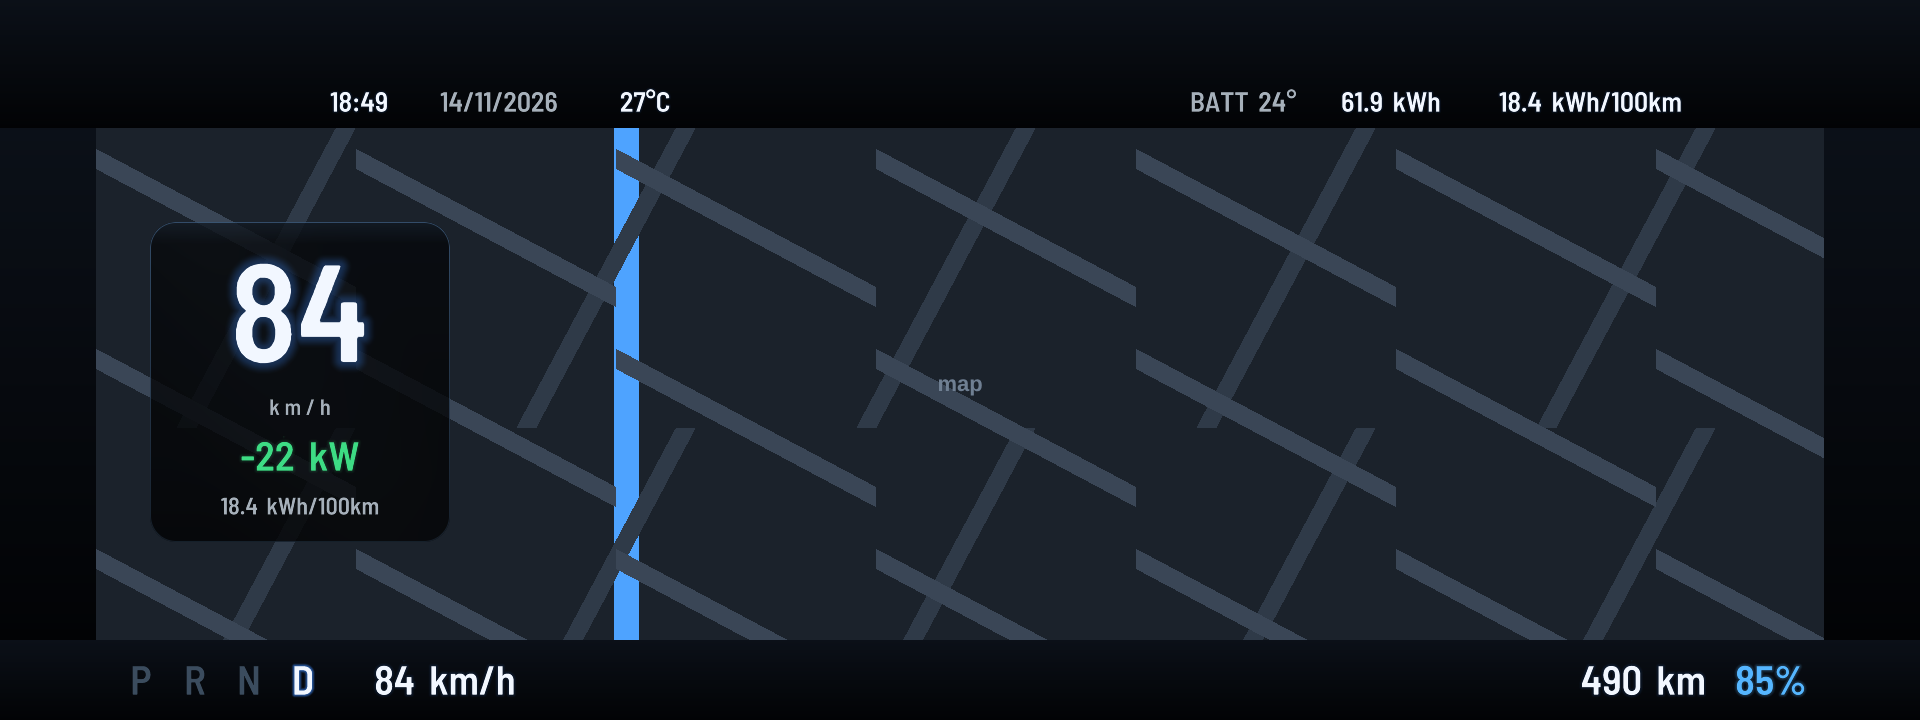
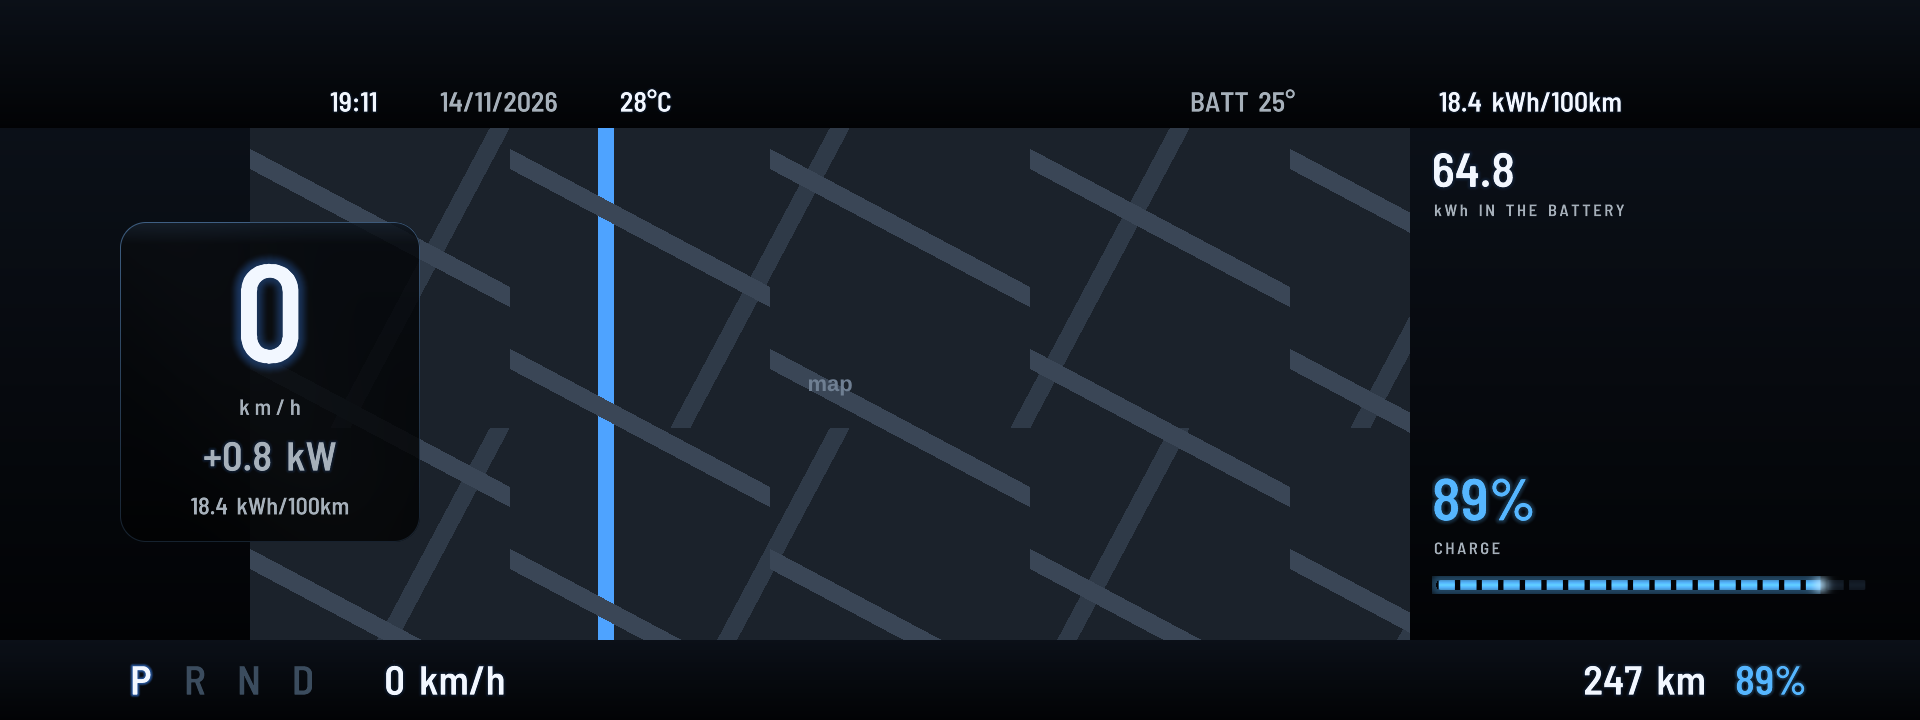
Cluster Layouts 0.35.0: Electric's Waze window in the map's shape, its card above the map
From the car: the map showed in the cluster's own vignetted place with the
stock dials and speed through the window, and Waze's map (z 900) would
cover a card at z 890.
- The window is 1160 x 512, in the shape of Waze's 1088 x 480 map, which
  it stretches to the window (1728 x 512 squashed it).
- A black underlay in the window: where no map is drawn (an older Waze on
  cluster, or none) black, not the stock cluster.
- The card and its texts at z 990 / 1000, over Waze's map.
- Right of the map: the energy in the battery and the charge with its
  bar, round the cluster's own boxes in full view.
- Cluster Info: an electric car's third item, the charge (1.6.10).
- tools/preview.js: with a layout's own window, the layers under z 900
  inside it are left out, as Waze's map covers them on the car.

Claude-Session: https://claude.ai/code/session_018huusukPYT9PcuHcAmoNTz

diff --git a/apps/cluster_layouts/layout_electric.js b/apps/cluster_layouts/layout_electric.js
@@ -167,31 +167,34 @@ function newCar(o, arcs, gearC, rpmTxt) {
 
 /*
  * ---- the Waze map in the centre: the map as the whole cluster ----
- * No dials. Waze on cluster draws its map where the layout says (map_window.js): here 1728 x 512, edge to edge,
- * instead of the native map area (1088 x 480). The speed, the power and the use per 100 km stand on a dark card
- * over the map's left side: Waze draws over the layout, so the card and its texts ask for a place above the map
- * (z); whether the renderer gives it is not yet seen on a car, so the speed is in the bottom band too.
- * Above the map, beside the camera's cowl: the time, the date and the outside temperature on the left, the
- * battery's temperature, its energy and the use on the right. Full view (Settings > Bottom strip): the bottom band
- * is the layout's, left and right of the stock warning lights (layout_common.TELLTALES): the gear selector P R N D
- * and the speed, the range and the charge. Over the car's own strip (which shows gear, range and time itself) a
- * chip over the map's bottom right has the range and the charge. In full view the KOMBI's own dark boxes
- * (layout_common.GEARBOX_HOLE, EDRIVE_HOLE) sit over the map's right side.
+ * No dials. Waze on cluster (0.9.107 or later) draws its map where the layout says (map_window.js), on the panel
+ * above the layout (its z 900), stretched to the window: so the window keeps the map's own shape (1088 x 480, 2.27
+ * to 1), 1160 x 512 here instead of the native map area's 1088 x 480. Under the window a black underlay: where no map
+ * is drawn (Waze not running, or an older one drawing in its own place) the cluster shows black there, not its stock
+ * dials and map screen through the window.
+ * Over the map's left side a dark card with the speed, the power and the use per 100 km, above the map (z 990 / 1000,
+ * over Waze's 900); not yet seen on a car, so the speed is in the bottom band too. Right of the map a column with the
+ * energy in the battery and the charge. Above the map, beside the camera's cowl: the time, the date and the outside
+ * temperature on the left, the battery's temperature and the use on the right. Full view (Settings > Bottom strip): the
+ * bottom band is the layout's, left and right of the stock warning lights (layout_common.TELLTALES): the gear selector
+ * P R N D and the speed, the range and the charge. In full view the KOMBI's own dark boxes (layout_common.GEARBOX_HOLE,
+ * EDRIVE_HOLE) sit over the right column: its readings are above, beside and below them.
  */
-const MAPWIN = { x: 96, y: 128, w: 1728, h: 512 };
+const MAPWIN = { x: 250, y: 128, w: 1160, h: 512 };
 const useFull = (o) => (d) => (useText(o)(d) === '--' ? '' : useText(o)(d) + ' ' + useLabel(o).replace(/ /g, ''));
 function mapForm(o) {
-    const W = MAPWIN, strip = C.strip(o), Z = { z: 900 };
+    const W = MAPWIN, strip = C.strip(o), Z = { z: 1000 };
     const around = [{ x: 0, y: 0, w: 1920, h: W.y }, { x: 0, y: W.y + W.h, w: 1920, h: 720 - W.y - W.h },
         { x: 0, y: W.y, w: W.x, h: W.h }, { x: W.x + W.w, y: W.y, w: 1920 - W.x - W.w, h: W.h }];
     const kwC = (t, d) => ({ color: [kwOf(d) < -0.3 ? t.regen : t.dim, 1], glow: [kwOf(d) < -0.3 ? t.regen : t.glow, 0.2] });
-    const dark = (key, x, y, w, h) => ({ key, kind: 'panel', x, y, w, h, z: 890, params: { u_box: [26, 1, 0.7, 0.8] },
-        colors: (t) => ({ top: '#06090d', bottom: '#020304', border: t.cardEdge }) });
     const T = (key, x, y, w, h, value, colours, extra) => C.text(key, x, y, w, h, value, colours, Object.assign({}, extra, Z));
-    const cx = 150, cw = 300;
+    const cx = 120, cw = 300, rx = 1432;
     let list = around.map((b, i) => bg('bg' + i, b.x, b.y, b.w, b.h)).concat([
-        // the card over the map: the speed, the power, the use
-        dark('speedCard', cx, 222, cw, 320),
+        // under the map's window: black, under Waze's map (bg's z, -200)
+        { key: 'bgMapUnder', kind: 'flat', x: W.x, y: W.y, w: W.w, h: W.h, colors: () => ({ color: ['#000000', 1] }) },
+        // the card, over the map's left side and above it: the speed, the power, the use
+        { key: 'speedCard', kind: 'panel', x: cx, y: 222, w: cw, h: 320, z: 990, params: { u_box: [26, 1, 0.7, 0.86] },
+            colors: (t) => ({ top: '#06090d', bottom: '#020304', border: t.cardEdge }) },
         T('speedMap', cx, 244, cw, 150, (d) => C.speedText(o, d), big),
         T('speedMapUnit', cx, 396, cw, 24, C.speedUnit(o), lbl, { tracking: 0.2 }),
         T('kwMap', cx, 436, cw, 44, C.kwText, kwC),
@@ -200,24 +203,23 @@ function mapForm(o) {
         C.text('clock', 330, 88, 100, 30, C.clock, txt, { align: 0 }),
         C.text('date', 440, 88, 170, 30, () => require('./clock').dmy(), lbl, { align: 0 }),
         C.text('outside', 620, 88, 110, 30, (d) => C.outsideText(o, d.outside), txt, { align: 0 }),
-        C.text('battT', 1190, 88, 130, 30, (d) => 'BATT ' + C.tempText(o, d.battTemp), lbl, { align: 0 }),
-        C.text('energyTop', 1326, 88, 130, 30, energyText, txt, { align: 0.5 }),
-        C.text('useTop', 1462, 88, 220, 30, useFull(o), txt, { align: 1 }),
+        C.text('battT', 1190, 88, 160, 30, (d) => 'BATT ' + C.tempText(o, d.battTemp), lbl, { align: 0 }),
+        C.text('useTop', 1362, 88, 260, 30, useFull(o), txt, { align: 1 }),
+        // the column right of the map: the energy in the battery above the KOMBI's gear box, the charge below it
+        C.text('energyR', rx, 146, 320, 52, (d) => (C.isNum(d.energy) ? d.energy.toFixed(1) : '--'), txt, { align: 0 }),
+        C.text('energyRLbl', rx + 2, 202, 320, 18, 'kWh IN THE BATTERY', lbl, { align: 0, tracking: 0.14 }),
+        C.text('socR', rx, 470, 300, 64, C.socText, evTxt, { align: 0 }),
+        C.text('socRLbl', rx + 2, 540, 300, 18, 'CHARGE', lbl, { align: 0, tracking: 0.14 }),
+        C.bar('socRBar', rx, 576, 440, 18, (d) => (C.isNum(d.soc) ? d.soc / 100 : 0), (t) => ({ track: t.track, fill0: t.ev, fill1: t.ev, redc: t.red, tip: t.tip, tick: t.dim, num: t.num }), 20),
     ]);
-    if (!strip) {
-        // full view, the bottom band: the selector and the speed left of the warning lights, range and charge right
-        const lit = (ch) => (t, d) => (C.selectorLit(d) === ch ? { color: [ch === 'R' ? t.red : t.text, 1], glow: [t.glow, 0.8] } : { color: [t.tick, 1], glow: [t.glow, 0] });
-        return list.concat(['P', 'R', 'N', 'D'].map((ch, i) => C.text('sel' + ch, 116 + i * 54, 660, 50, 44, ch, lit(ch))), [
-            // (the speed here too: there whether or not the card over the map shows)
-            C.text('speedBand', 350, 660, 190, 44, (d) => C.speedText(o, d) + ' ' + C.speedUnit(o), txt, { align: 0.5 }),
-            C.text('rangeBand', 1536, 660, 170, 44, rangeText(o), txt, { align: 1 }),
-            C.text('socBand', 1716, 660, 110, 44, C.socText, evTxt, { align: 0.5 }),
-        ]);
-    }
-    return list.concat([
-        dark('rangeChip', 1436, 560, 360, 60),
-        T('rangeMap', 1448, 572, 190, 36, rangeText(o), txt, { align: 1 }),
-        T('socMap', 1650, 572, 134, 36, C.socText, evTxt, { align: 0.5 }),
+    if (strip) return list;
+    // full view, the bottom band: the selector and the speed left of the warning lights, range and charge right
+    const lit = (ch) => (t, d) => (C.selectorLit(d) === ch ? { color: [ch === 'R' ? t.red : t.text, 1], glow: [t.glow, 0.8] } : { color: [t.tick, 1], glow: [t.glow, 0] });
+    return list.concat(['P', 'R', 'N', 'D'].map((ch, i) => C.text('sel' + ch, 116 + i * 54, 660, 50, 44, ch, lit(ch))), [
+        // (the speed here too: there whether or not the card over the map shows)
+        C.text('speedBand', 350, 660, 190, 44, (d) => C.speedText(o, d) + ' ' + C.speedUnit(o), txt, { align: 0.5 }),
+        C.text('rangeBand', 1536, 660, 170, 44, rangeText(o), txt, { align: 1 }),
+        C.text('socBand', 1716, 660, 110, 44, C.socText, evTxt, { align: 0.5 }),
     ]);
 }
 
@@ -227,7 +229,7 @@ module.exports = {
     dap: true,          // (its road: the driving assistant's view, dap.js)
     palette: (lookId) => PALETTES[lookId] || PALETTES.comfort,
     gearText: C.gearText,
-    mapWindow: MAPWIN,  // (its own map window for Waze on cluster: edge to edge)
+    mapWindow: MAPWIN,  // (its own map window for Waze on cluster: larger than the native one, in the map's shape)
 
     pieces(o) {
         const s = C.speedScale(o), r = C.rpmScale(o);

diff --git a/tools/test_bev.js b/tools/test_bev.js
@@ -44,20 +44,25 @@ LAYOUTS.forEach((L) => { const s = makeScene({ layout: L.id, options: { vehicle:
     const E = LAYOUTS.find((l) => l.id === 'electric'), W = E.mapWindow;
     const base = { speedUnit: 'kmh', tempUnit: 'c', centre: 'map', vehicle: 'bev', redline: 7000, rpmMax: 8000 };
     const hit = (r, w) => r.x < w.x + w.w && r.x + r.w > w.x && r.y < w.y + w.h && r.y + r.h > w.y;
-    assert(W && W.w * W.h > 1088 * 480 * 1.5 && W.y >= 128 && W.y + W.h <= 646, JSON.stringify(W));
+    // (Waze stretches its 1088 x 480 map to the window: the window keeps that shape, and is larger)
+    assert(W && Math.abs(W.w / W.h - 1088 / 480) < 0.02 && W.w * W.h > 1088 * 480 && W.y >= 128 && W.y + W.h <= 646, JSON.stringify(W));
     const d2 = { speed: 84, kw: -22, soc: 85, erange: 490, battTemp: 24, outside: 27, use: 18.4, energy: 61.9, stage: 'D' };
     ['layout', 'stock'].forEach((bottomStrip) => {
         const list = E.pieces(Object.assign({}, base, { bottomStrip })), where = 'electric map / ' + bottomStrip;
-        assert(!list.some((p) => p.kind === 'band'), where + ': no dials');
-        // what is over the map asks for a place above it
-        assert(list.filter((p) => hit(p, W)).every((p) => p.z >= 890), where + ': over the map only above it');
+        assert(!list.some((p) => p.kind === 'band' && p.key !== 'socRBar'), where + ': no dials (the charge bar alone)');
+        // what is over the map is above Waze's map (its z 900), but the black underlay, which is under it
+        assert(list.filter((p) => hit(p, W) && p.key !== 'bgMapUnder').every((p) => p.z > 900), where + ': over the map only above it');
+        const under = list.find((p) => p.key === 'bgMapUnder');
+        assert(under && under.x === W.x && under.w === W.w && !(under.z > 0), where + ': a black underlay under the map');
+        // the right column clear of the KOMBI's boxes (full view)
+        assert(!list.some((p) => /R(Lbl|Bar)?$/.test(p.key) && /^(energy|soc)/.test(p.key) && (hit(p, C.GEARBOX_HOLE) || hit(p, C.EDRIVE_HOLE))), where + ': the right column round the boxes');
         const say = (k) => { const p = list.find((q) => q.key === k); return p ? (typeof p.text === 'function' ? p.text(d2) : p.text) : undefined; };
         assert.strictEqual(say('speedMap'), '84', where);
         assert.strictEqual(say('useCard'), '18.4 kWh/100km', where + ': the use on the card');
         assert.strictEqual(say('useTop'), '18.4 kWh/100km', where + ': and above the map');
         assert.strictEqual(say('battT'), 'BATT 24°', where + ': Celsius');
-        assert.strictEqual(say('energyTop'), '61.9 kWh', where);
-        if (bottomStrip === 'stock') { assert.strictEqual(say('rangeMap'), '490 km', where); return; }
+        assert.deepStrictEqual([say('energyR'), say('socR')], ['61.9', '85%'], where);
+        if (bottomStrip === 'stock') return;
         // full view: the selector, the speed, the range and the charge in the band beside the warning lights; the
         // time, the date and the outside temperature above the map
         assert.strictEqual(say('outside'), '27°C', where);

diff --git a/tools/preview.js b/tools/preview.js
@@ -139,6 +139,12 @@ if (require.main === module) {
     s.stop();
     scene.time = a.time || 0;
     const LY = require('../apps/cluster_layouts/layouts').byId(a.layout);
+    // a layout's own window: Waze on cluster draws its map there on the panel at z 900, over the layout's layers below
+    // that and under those above it - so those below, inside the window, don't show (Electric's black underlay)
+    if (a.centre === 'map' && LY.mapWindow) {
+        const W = LY.mapWindow;
+        scene.quads = scene.quads.filter((q) => !(q.z < 900 && q.x >= W.x && q.y >= W.y && q.x + q.w <= W.x + W.w && q.y + q.h <= W.y + W.h));
+    }
     render(scene, a.out, a.centre === 'map' && (LY.mapWindow || true), a.mcar ? require('../apps/cluster_layouts/layout_common').M_BOXES : []).then((errors) => {
         if (errors.length) { console.error(errors.join('\n')); process.exit(1); }
         console.log('wrote ' + path.resolve(a.out) + ' (' + scene.quads.length + ' layers)');

diff --git a/tools/test_engine.js b/tools/test_engine.js
@@ -96,7 +96,7 @@ LAYOUTS.forEach((L) => {
         const o = { speedUnit: 'mph', tempUnit: 'f', centre: 'map', redline: 7000, rpmMax: 8000 };
         const hole = (l) => /^(mdash|sdash)$/.test(l.kind) && l.params.u_hole && l.params.u_hole[2] > 0;   // (cut see-through there)
         // (or it asks for a place above the map, Electric's card: z)
-        const above = (l) => { const p = L.pieces(o).find((q) => q.key === l.key); return !!p && p.z >= 890; };
+        const above = (l) => { const p = L.pieces(o).find((q) => q.key === l.key); return !!p && (p.z > 900 || p.key === 'bgMapUnder'); };
         assert(over.every((l) => (l.geo && l.geo[2] > 0) || hole(l) || above(l) || (l.kind === 'chevron' && clashes(l, o).indexOf('over the map') < 0)), 'over the map: ' + over.map((l) => l.key).join(' '));
         s.stop();
     });

diff --git a/tools/scene.js b/tools/scene.js
@@ -75,7 +75,7 @@ function makeScene(opts) {
             const order = { ambient: 0, content: 1, overlay: 2, alert: 3 };
             const quads = ls.filter((l) => l.kind === 'effect' && l.opts.visible !== false)
                 .sort((a, b) => (order[a.opts.klass] - order[b.opts.klass]) || ((a.opts.z || 0) - (b.opts.z || 0)) || (a.ref - b.ref))
-                .map((l) => ({ ref: l.ref, x: l.opts.x, y: l.opts.y, w: l.opts.w, h: l.opts.h, fs: l.opts.fs, uniforms: l.uniforms, binds: l.binds }));
+                .map((l) => ({ ref: l.ref, x: l.opts.x, y: l.opts.y, w: l.opts.w, h: l.opts.h, z: l.opts.z || 0, fs: l.opts.fs, uniforms: l.uniforms, binds: l.binds }));
             return { w: 1920, h: 720, quads, assets };
         },
         stop() { engine.stop(); },

diff --git a/apps/cluster_layouts/README.md b/apps/cluster_layouts/README.md
@@ -40,15 +40,17 @@ with mph), the battery's temperature and its health; the range and the energy in
 engine speed, fuel, oil or coolant anywhere. The use, health and energy are eDrive's (2.10.16 or later shares them);
 without it they read --. Drawn in the preview only so far, not yet seen on a cluster.
 
-With the Waze map in the centre it is another cluster: no dials, the map edge to edge. Waze on cluster gets a window
-of 1728 x 512 instead of the native map area (1088 x 480). On a dark card over the map's left side stand the speed,
-large, the battery's power and the use per 100 km; above the map, beside the camera's cowl, the time (24-hour with
-Settings > Clock), the date as day/month/year and the outside temperature on the left, the battery's temperature, its
-energy and the use on the right. In full view (Settings > Bottom strip) the bottom band has the gear selector (P R N
-D, the engaged one lit) and the speed left of the stock warning lights, the range and the charge right of them; over
-the car's own strip a chip over the map has the range and the charge. Waze draws over the layout, so the card asks the
-renderer for a place above the map: not yet seen on a car, which is why the speed is in the bottom band too. In full
-view the cluster's own two dark boxes sit over the right of the map.
+With the Waze map in the centre it is another cluster: no dials, the map large. It needs **Waze on cluster 0.9.107 or
+later** (eroobeeroo/idrive-apps), which draws the map in the layout's window on the panel, above the layout; an older
+one draws in the cluster's own map place, and the window then stays black. Waze stretches its 1088 x 480 map to the
+window, so the window keeps that shape: 1160 x 512, from the camera's cowl down to the bottom band. On a dark card over
+the map's left side, above the map, stand the speed, large, the battery's power and the use per 100 km; right of the
+map the energy in the battery and the charge with its bar; above the map, beside the cowl, the time (24-hour with
+Settings > Clock), the date as day/month/year and the outside temperature on the left, the battery's temperature and
+the use on the right. In full view (Settings > Bottom strip) the bottom band has the gear selector (P R N D, the engaged
+one lit) and the speed left of the stock warning lights, the range and the charge right of them. In full view the
+cluster's own two dark boxes sit in the right column, between its readings. Cluster Info's panel (Settings > Show the
+panel) goes over the same map: switch it off while this layout shows.
 
 ![Electric: the map edge to edge, full view](../../docs/electric_map_full.png)
 
